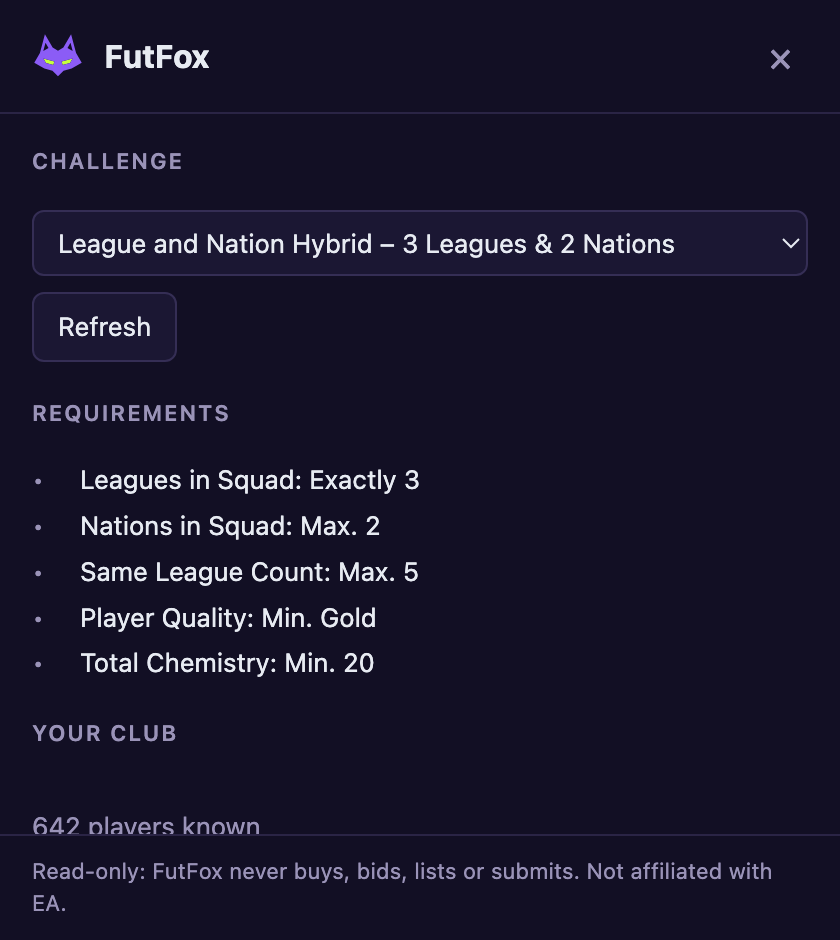
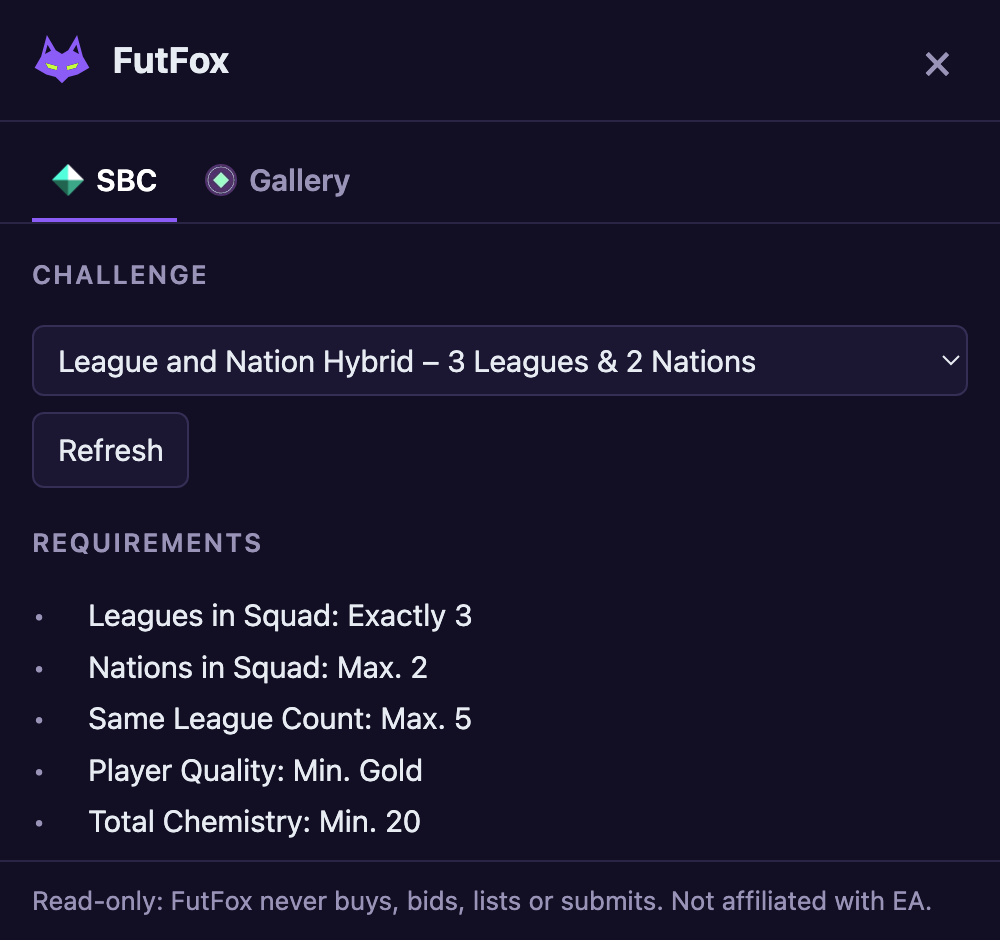
Refresh the website's How it works pictures
The panel is now never narrower than the window (up to 520 px), so
cropping the shots to 420 px cut it off. The capture script keeps the
full 500 px for panel shots, and the capture page switches the Gallery
on and loads the panel art, so the pictures show the SBC and Gallery
tabs as the Web App does. Step 3 is a little taller so its last line
fits. The site's image sizes follow.

diff --git a/store/futfox-site/index.html b/store/futfox-site/index.html
@@ -125,10 +125,10 @@
         </ol>
         <div class="how-stage">
           <img class="shot is-active" data-step="1" src="/assets/steps/step-1.png" width="300" height="150" alt="The FutFox button in the bottom-right corner of the Web App">
-          <img class="shot" data-step="2" src="/assets/steps/step-2.png" width="420" height="470" alt="The panel with a challenge selected and its five requirements listed">
-          <img class="shot" data-step="3" src="/assets/steps/step-3.png" width="420" height="330" alt="The Your club section while loading, with 182 players read so far">
-          <img class="shot" data-step="4" src="/assets/steps/step-4.png" width="420" height="640" alt="A suggested squad: 79 rating, 24 chemistry, about 1,193 coins, with one card to buy">
-          <img class="shot" data-step="5" src="/assets/steps/step-5.png" width="420" height="330" alt="A card to buy with its Search market button">
+          <img class="shot" data-step="2" src="/assets/steps/step-2.png" width="500" height="470" alt="The panel with a challenge selected and its five requirements listed">
+          <img class="shot" data-step="3" src="/assets/steps/step-3.png" width="500" height="360" alt="The Your club section while loading, with 182 players read so far">
+          <img class="shot" data-step="4" src="/assets/steps/step-4.png" width="500" height="640" alt="A suggested squad: 79 rating, 24 chemistry, about 1,193 coins, with one card to buy">
+          <img class="shot" data-step="5" src="/assets/steps/step-5.png" width="500" height="330" alt="A card to buy with its Search market button">
         </div>
       </div>
     </div>

diff --git a/store/screens/capture.html b/store/screens/capture.html
@@ -10,6 +10,10 @@
 <style>
   html, body { margin: 0; height: 100%; background: #1d2330; }
 </style>
+<script>
+  // Open on the SBC tab, whatever the Gallery capture left in this browser.
+  localStorage.setItem('futfox.settings', JSON.stringify({ view: 'sbc' }));
+</script>
 <script src="../../src/core/requirements.js"></script>
 <script src="../../src/core/rating.js"></script>
 <script src="../../src/core/chemistry.js"></script>
@@ -59,6 +63,8 @@
   let loading = null;
   FutFox.fut = {
     isReady: () => true,
+    // Shows the SBC and Gallery tabs, as in the Web App.
+    galleryEnabled: true,
     getChallenges: () => [{ id: 1, setName: 'League and Nation Hybrid', name: '3 Leagues & 2 Nations', status: 'OPEN', challenge: {} }],
     rulesFor: () => RULES,
     slotsFor: () => [0, 3, 5, 5, 7, 14, 14, 14, 23, 25, 27].map((typeId) => ({ typeId })),
@@ -76,6 +82,7 @@
   };
 })();
 </script>
+<script src="../../src/page/art.js"></script>
 <script src="../../src/page/panel.js"></script>
 <script>
 (function () {
